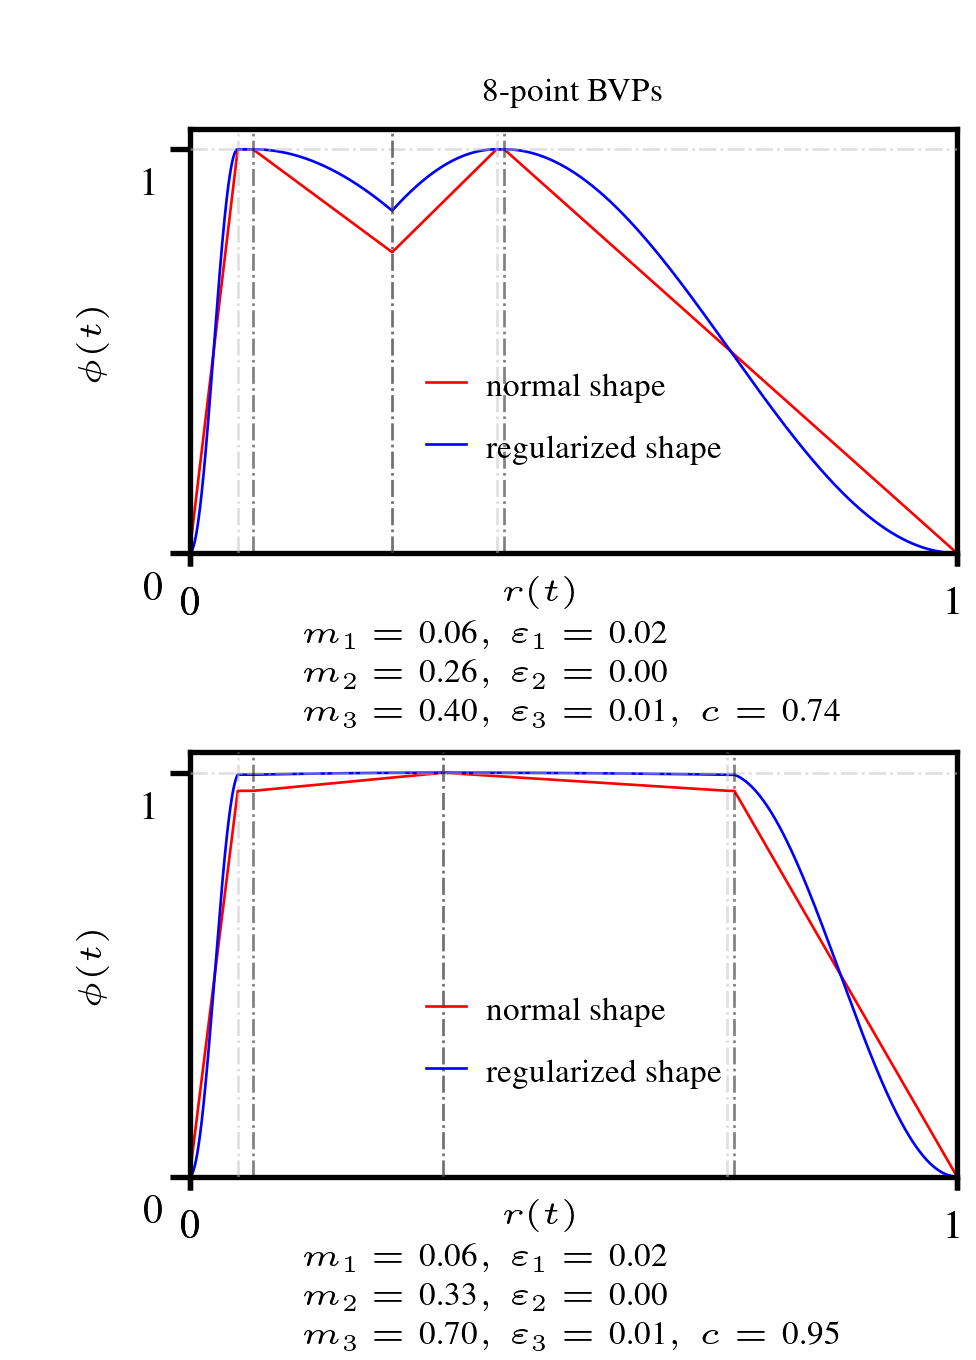
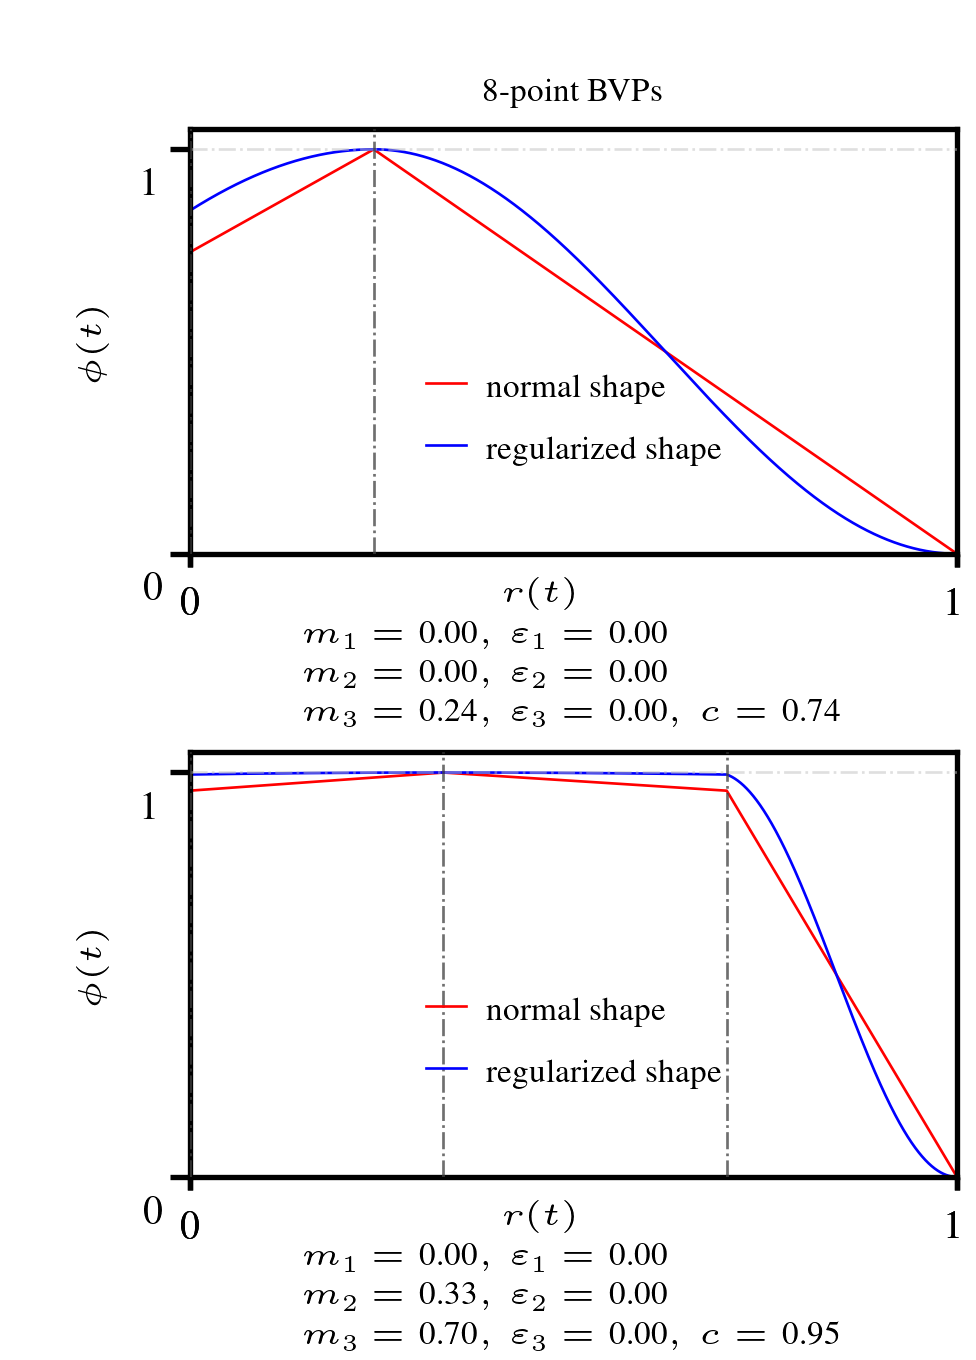
fix viz

diff --git a/bvp4lrs_anim.py b/bvp4lrs_anim.py
@@ -426,8 +426,10 @@ m, e = 0.1, 0.1
 p=1
 
 
-def addplt(r, m, e, xprobe=0.5):
+def addplt(r, m, e):
 
+    # print(f"m={m:.2f}, e={e:.2f}")
+    
     x = x4(r, m=m, e=e)
 
     yl = glin(x, p=p)
@@ -574,9 +576,9 @@ def update(frame):
     for ax in [ax_main, ax_xbvp, ax_time]: ax.clear()
 
     # animated
-    m = (frame%30)/30
+    m = (frame%180)/180
     m = 1 - np.cos(np.pi*m)**2
-    e = (frame%960)/960
+    e = (frame%30)/30
     e = 1 - np.cos(np.pi*e)**2
 
     addplt(r, m, e)

diff --git a/bvp8lrs_anim.py b/bvp8lrs_anim.py
@@ -420,8 +420,8 @@ handles1 = []
 handles2 = []
 
 # Config.
-m1, m2, m3 = 0.19, 0.4, 0.5
-e1, e2, e3 = 0.1, 0., 0.1
+m1, m2, m3 = 0., 0., 0.3
+e1, e2, e3 = 0., 0., 0.
 c = 0.85
 
 p=1

diff --git a/README.md b/README.md
@@ -1,6 +1,8 @@
 # bvp_lrs
 
-![bvp4_plt](figures/bvp4_plt.png)
+<p align="center">
+<img src="figures/bvp_4_anim.gif" width="250"
+</p>
 
 This repository builds learning-rate schedules from boundary-value problems (BVPs). The idea is to shape a parameterized profile over the interval r in [0, 1] and then convert it into a smooth learning-rate window via a transform such as a linear or raised-cosine envelope.
 
@@ -69,6 +71,10 @@ profile = x8Dome(r, 0.05, 0.2, 0.45, 0.0, 0.05, 0.05, 0.85)
 schedule = glin(profile, p=1)
 ```
 
+<p align="center">
+<img src="figures/bvp8_plt.png" width="250"
+</p>
+
 ## Visualization
 
 Run the static or animated BVP exploration script:
@@ -76,8 +82,6 @@ Run the static or animated BVP exploration script:
 ```bash
 python bvp4lrs_anim.py
 ```
-
-![bvp4_anim](figures/bvp4_anim.gif)
 
 The animation sweeps `m` and `e` together, making the transition between shape regimes easier to inspect.
 
@@ -89,7 +93,10 @@ python bvp8lrs_anim.py
 
 The animation demonstrates the complicated shape construction capabilites of the `x8M` and `x8Dome` families.
 
-![bvp8_anim](figures/bvp8_anim.gif)
+
+<p align="center">
+<img src="figures/bvp_8_anim.gif" width="250"
+</p>
 
 ## References
 
